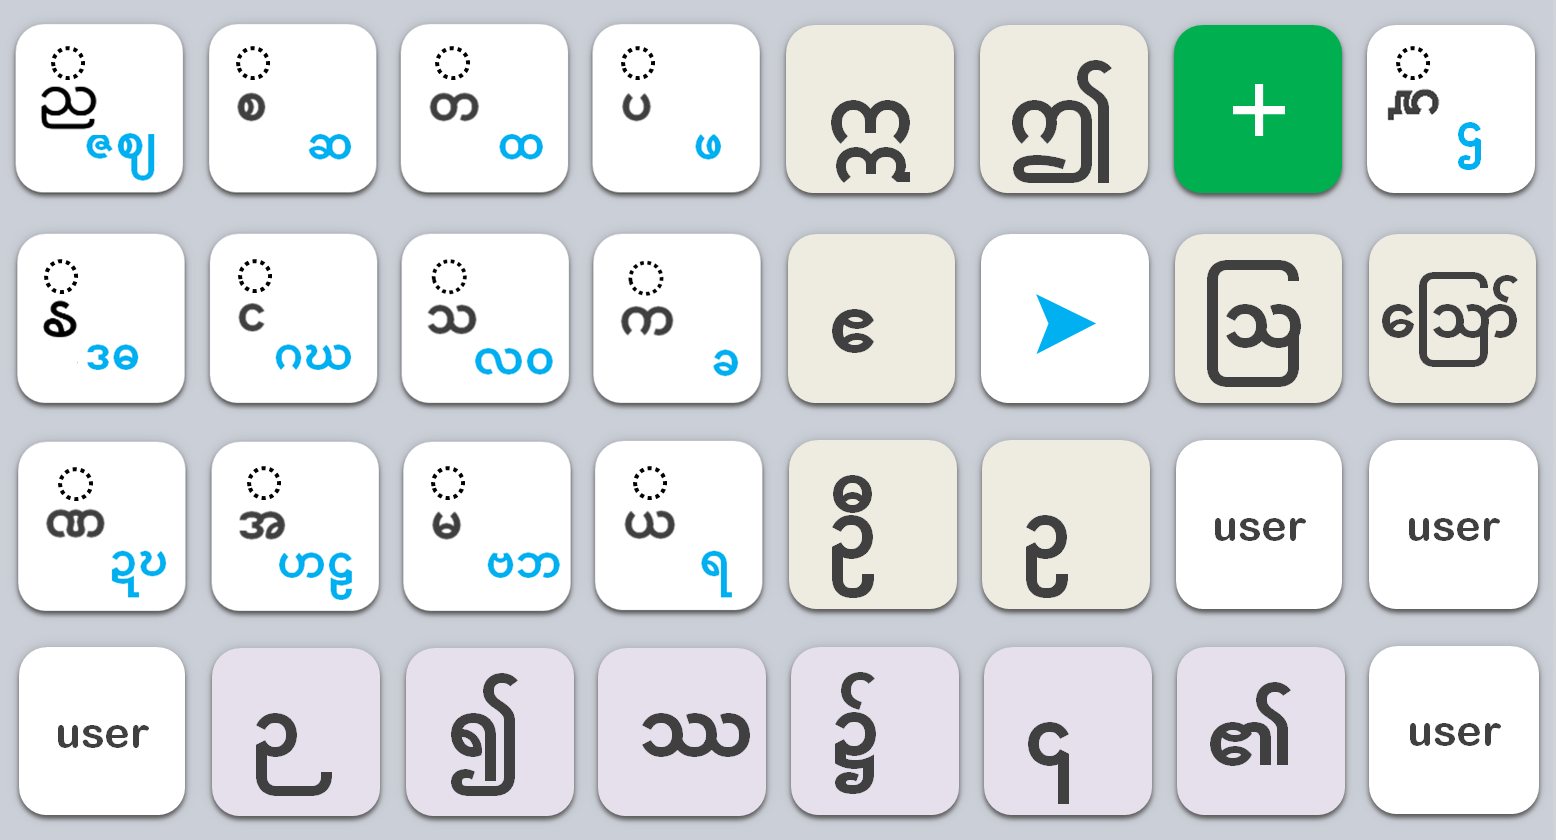
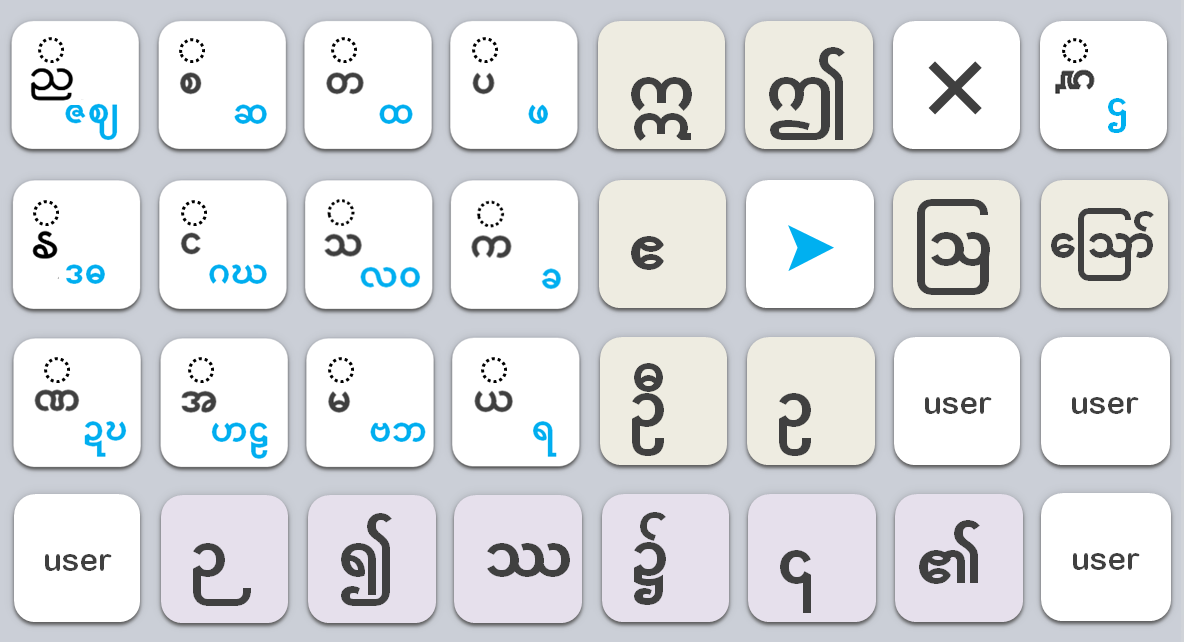
Add files via upload

diff --git a/tutorial_pc.html b/tutorial_pc.html
@@ -333,7 +333,8 @@ function handleInput(rawKey) {
    실제로 그릴 때(paintRings) 지금 어느 이미지가 떠 있는지에 맞는 폭으로 나눠 %를 계산한다 —
    그냥 KIMG_W 하나만 늘렸더니 두 이미지 폭이 서로 달라서 플러스 모드일 때 전부 어긋났었다. */
 const KIMG_H = 356;
-const NORMAL_KIMG_W = 1282, PLUS_KIMG_W = 1225;
+// 2026-09-23 추가: pc_plus.png도 3행 9·10열 버튼을 붙여 1282로 늘어났다 - 이제 두 이미지 키 좌표가 완전히 같다.
+const NORMAL_KIMG_W = 1282, PLUS_KIMG_W = 1282;
 const KB = (x0,y0,x1,y1) => ({ x0, y0, x1, y1 });
 const KEY_BOXES = {
   q:KB(4,3,105,107),   w:KB(118,3,218,107),  e:KB(231,3,332,107),  r:KB(344,3,445,107),  t:KB(457,3,558,107),
@@ -342,7 +343,7 @@ const KEY_BOXES = {
   h:KB(665,126,766,231), j:KB(778,126,879,231), k:KB(892,126,993,231), l:KB(1006,126,1107,231), ";":KB(1120,126,1221,231),
   z:KB(95,248,196,353), x:KB(209,248,310,353), c:KB(322,248,423,353), v:KB(435,248,536,353), b:KB(549,248,649,353),
   n:KB(723,248,824,353), m:KB(837,248,937,353), ",":KB(951,248,1051,353), ".":KB(1064,248,1164,353),
-  "/":KB(1174,248,1280,353) // pc_map(일반 모드)에만 있는 키 - paintRings에서 플러스 모드면 건너뜀
+  "/":KB(1174,248,1280,353)
 };
 
 // 튜토리얼 스텝의 kid → 물리 키
@@ -364,15 +365,17 @@ function kidToKey(kid) {
 
 const kbdImg = document.getElementById('kbdimg');
 const kbdWrap = document.getElementById('kbd-wrap');
+// 삼행시 씬에서는 키맵 우측(모음 영역)을 암기문으로 덮은 그림을 쓴다 - 같은 1282x356이라 링 좌표 그대로
+const MNEMONIC_IMG = "images/pc_map_mnemonic.png";
+let kbdMnemonic = false;
 function syncKbdImage() {
-  const want = state.isPlusMode ? PLUS_IMG : NORMAL_IMG;
+  const want = state.isPlusMode ? PLUS_IMG : (kbdMnemonic ? MNEMONIC_IMG : NORMAL_IMG);
   if (!kbdImg.getAttribute('src').endsWith(want)) kbdImg.setAttribute('src', want);
 }
 function paintRings(specs) {
   kbdWrap.querySelectorAll('.ring').forEach(n => n.remove());
   const imgW = state.isPlusMode ? PLUS_KIMG_W : NORMAL_KIMG_W;
   (specs || []).forEach(({ key, cls }) => {
-    if (state.isPlusMode && key === "/") return; // pc_plus.png엔 이 키가 없다
     const box = KEY_BOXES[key];
     if (!box) return;
     const d = document.createElement('div');
@@ -397,17 +400,22 @@ const VARGA = [
 ];
 
 const VOWEL_KEYS = ["u","i","j","l",";","m",",","."];
+const MNEMONIC_KEYS = ["q","w","e","r","a","s","d","f","z","x","c","v"];
 
 const SCENES = [
   { type:"explain", diagram:true, rings:[{key:"w",cls:""}],
     coach:'ဗျည်းဇယားရဲ့ တစ်တန်းစီက စာလုံး ၅ လုံးကို <b>ရှေ့ ၂ လုံး (၁·၂)</b> နဲ့ <b>နောက် ၃ လုံး (၅·၃·၄)</b> — အုပ်စု ၂ ခုခွဲ၍ စီစဉ်ထားပါတယ်။<br>' +
           '<b style="color:#1aa3e8">အပြာရောင်စာလုံး</b>က ညာဘက်က <b>➤</b> ကို ထပ်နှိပ်ပြီး ရိုက်ပါ။' },
 
+  // 자음 배열 암기용 삼행시 - 아래 키맵 우측에 암기문 표시(pc_map_mnemonic.png), 빨간 글자 = 그 줄 자음 키
+  { type:"explain", mnemonic:true, rings: MNEMONIC_KEYS.map(k => ({ key:k, cls:"" })),
+    coach:'ဗျည်းခလုတ်တွေကို ဒီလို မှတ်ရင် လွယ်ပါတယ်။<br><b style="color:#e11d1d">အနီရောင်</b> စာလုံးတွေက ခလုတ်တွေပေါ်က ဗျည်းတွေပါ။' },
+
   { type:"explain", rings: VOWEL_KEYS.map(k => ({ key:k, cls:"" })),
     coach:'သရသံနဲ့ အသံသင်္ကေတတွေက ဗျည်းနဲ့ <b>တွဲတဲ့ ဘက်</b>အလိုက် ခလုတ်တွေမှာ စီထားပါတယ်။<br>အပေါ်တွဲတာ <b>အပေါ်</b>မှာ၊ အောက်တွဲတာ <b>အောက်</b>မှာ။' },
 
   { type:"explain", rings:[{key:"o",cls:"pulse"}], peekPlus:true,
-    coach:'ဗျည်းဆင့်နဲ့ အထူးအက္ခရာတွေအတွက် <b style="color:#0a7d31">အစိမ်းရောင် ＋</b> ကို နှိပ်ပါ။<br><span style="color:#6b7280;font-size:.9em">အခု နှိပ်ကြည့်ပြီး ကီးဘုတ်က ဘယ်လိုလဲ ကြည့်ထားပါ။</span>' },
+    coach:'ဗျည်းဆင့်နဲ့ အထူးအက္ခရာတွေအတွက် <b>ပါဠိဆင့်+ ကီး</b>ကို နှိပ်ပါ။<br><span style="color:#6b7280;font-size:.9em">အခု နှိပ်ကြည့်ပြီး ကီးဘုတ်က ဘယ်လိုလဲ ကြည့်ထားပါ။</span>' },
 
   { type:"practice", word:"ဆီ", win:"ရပြီ! ✓&nbsp; ဆီ",
     steps:[
@@ -423,7 +431,7 @@ const SCENES = [
       { kid:"STEP",       expect:"ဒ",     coach:'ဘေးစာလုံးကို <b>➤</b> နဲ့။&nbsp; န → ဒ' },
       { kid:",",          expect:"ဒု",    coach:'အောက်တွဲတဲ့ သင်္ကေတက <b>အောက်</b>။' },
       { kid:"g_ka",       expect:"ဒုက",   coach:'<b>က</b> ကို နှိပ်ပါ။' },
-      { kid:"PLUS",       checkPlus:true, coach:'ဗျည်းဆင့်ဖို့ <b style="color:#0a7d31">အစိမ်းရောင် ＋</b> ကီး။' },
+      { kid:"PLUS",       checkPlus:true, coach:'ဗျည်းဆင့်ဖို့ <b>ပါဠိဆင့်+ ကီး</b>ကို နှိပ်ပါ။' },
       { kid:"stack:g_ka", expect:"ဒုက္က", coach:'<b>ခ</b> ပါတဲ့ <b>က</b> ကီးကို နှိပ်ပါ။' },
       { kid:"STEP",       expect:"ဒုက္ခ", coach:'<b>➤</b> နှိပ်ပြီး ခ သို့ ပြောင်းပါ။' }
     ] }
@@ -462,6 +470,7 @@ const TUT = {
     });
 
     diagramEl.hidden = !sc.diagram;
+    kbdMnemonic = !!sc.mnemonic; syncKbdImage();
     document.getElementById('row').classList.toggle('split', !!sc.diagram);
     goalEl.hidden = !practice;          // 따라쓰기 씬에서만 부제로
     editorEl.hidden = !practice;

diff --git a/tutorial_m.html b/tutorial_m.html
@@ -83,7 +83,7 @@
   .btn.ghost   { background: #eef0f2; color: #374151; }
 
   /* ── 키보드 (항상 노출) ── */
-  .keyboard-container { position: relative; width: 100%; flex-shrink: 0; line-height: 0; aspect-ratio: 1758 / 954; }
+  .keyboard-container { position: relative; width: 100%; flex-shrink: 0; line-height: 0; aspect-ratio: 1184 / 646; }
   .keyboard-container > img.kbd-bg { width: 100%; height: 100%; display: block; pointer-events: none; user-select: none; }
   .keyboard { position: absolute; top: 0; left: 0; width: 100%; height: 100%; }
   .key {
@@ -153,24 +153,28 @@ const VIRAMA = "္";
 
 const N_COLX = [0.8, 13.2, 25.5, 37.85, 50.25, 62.7, 75.15, 87.5];
 const N_COLW = [11.4, 11.4, 11.4, 11.45, 11.45, 11.4, 11.45, 11.5];
-const N_ROWY = [2.3, 27.15, 51.8];
-const N_ROWH = 21.4;
+const N_ROWY = [2.7, 27.45, 52.0];
+const N_ROWH = 21.0;
 const N_LAYOUT = [
   ["g_nnya", "g_ca",  "g_ta",  "g_pa",  "i",    "k",    "PLUS", "g_tta"],
   ["g_na",   "g_nga", "g_tha", "g_ka",  "j",    "STEP", "l",    ";"    ],
   ["g_nna",  "g_a",   "g_ma",  "g_ya",  "m",    ",",    ".",    "BS"   ]
 ];
+// 4행 6칸: ! ? , 스페이스 ၊(၊→။→… 순환) 엔터 — 안드로이드 앱 KeyMetrics 하단바와 동일한 칸 구성
 const N_BOTTOM = [
-  { key: "NUM",   left: 0.8,   width: 23.83 },
-  { key: "SPACE", left: 25.54, width: 48.63 },
-  { key: "ENTER", left: 75.14, width: 23.89 }
+  { key: "EXCL",  left: 0.93,  width: 8.87  },
+  { key: "QUEST", left: 10.81, width: 9.12  },
+  { key: "COMMA", left: 20.69, width: 11.15 },
+  { key: "SPACE", left: 32.85, width: 34.04 },
+  { key: "STOP",  left: 67.82, width: 11.15 },
+  { key: "ENTER", left: 80.15, width: 18.92 }
 ];
-const N_BOTTOM_Y = 76.5, N_BOTTOM_H = 21.3;
+const N_BOTTOM_Y = 76.8, N_BOTTOM_H = 20.9;
 
 const P_COLX = [0.8, 13.2, 25.54, 37.83, 50.28, 62.74, 75.2, 87.6];
 const P_COLW = [11.49, 11.49, 11.6, 11.66, 11.6, 11.55, 11.49, 11.6];
-const P_ROWY = [2.4, 27.25, 51.78, 76.31];
-const P_ROWH = 21.5;
+const P_ROWY = [2.96, 27.73, 52.3, 76.64];
+const P_ROWH = 21.05;
 const P_LAYOUT = [
   [ {stack:"g_nnya"}, {stack:"g_ca"},  {stack:"g_ta"},  {stack:"g_pa"},  {lit:"ဣ"}, {lit:"ဤ"}, "PLUS",     {stack:"g_tta"} ],
   [ {stack:"g_na"},   {stack:"g_nga"}, {stack:"g_tha"}, {stack:"g_ka"},  {lit:"ဧ"}, "STEP",    {lit:"ဩ"}, {lit:"ဪ"}       ],
@@ -280,7 +284,17 @@ function handleInput(key) {
   }
   if (key === "SPACE") { setText(getText() + ' ');  resetState(); render(); return; }
   if (key === "ENTER") { setText(getText() + '\n'); resetState(); render(); return; }
-  if (key === "NUM")   { return; }
+  // 4행 문장부호: ! ? , 는 그대로 입력. ၊ 키는 연타하면 ၊ → ။ → ... → .... (안드로이드 handleMyanmarStop과 동일)
+  if (key === "EXCL" || key === "QUEST" || key === "COMMA") {
+    setText(getText() + { EXCL: "!", QUEST: "?", COMMA: "," }[key]); resetState(); render(); scrollToEnd(); return;
+  }
+  if (key === "STOP") {
+    const seq = i => i === 0 ? "၊" : i === 1 ? "။" : ".".repeat(i + 1);
+    let cur = getText();
+    if (state.lastTapKey === "STOP") { cur = cur.slice(0, -seq(state.tapIndex).length); state.tapIndex++; }
+    else { resetState(); state.lastTapKey = "STOP"; state.tapIndex = 0; }
+    setText(cur + seq(state.tapIndex)); render(); scrollToEnd(); return;
+  }
 
   if (key === "STEP") {
     if (!state.activeGroup) return;
@@ -386,7 +400,7 @@ const SCENES = [
     btn:"ဟုတ်တယ်၊ ကောင်းတဲ့ အကြံ!" },
 
   { type:"explain", pulse:"PLUS", interactive:["PLUS"],
-    coach:'ဗျည်းဆင့်နဲ့ အထူးအက္ခရာတွေအတွက် <b style="color:#0a7d31">အစိမ်းရောင် ＋</b> ကို နှိပ်ပါ။',
+    coach:'ဗျည်းဆင့်နဲ့ အထူးအက္ခရာတွေအတွက် <b>ပါဠိဆင့်+ ကီး</b>ကို နှိပ်ပါ။',
     btn:"နားလည်ပါပြီ" },
 
   { type:"practice", word:"ဆီ", win:"ရပြီ! ✓&nbsp; ဆီ",
@@ -404,7 +418,7 @@ const SCENES = [
       { kid:"STEP",       expect:"ဒ",     coach:'နောက်စာလုံးကို <b>▶</b> နဲ့ ရွှေ့ပါ။&nbsp; န → ဒ' },
       { kid:",",          expect:"ဒု",    coach:'အောက်တွဲတဲ့ သင်္ကေတက <b>အောက်</b>မှာ ရှိတယ်။' },
       { kid:"g_ka",       expect:"ဒုက",   coach:'<b>က</b> ကို နှိပ်ပါ။' },
-      { kid:"PLUS",       checkPlus:true, coach:'ဗျည်းဆင့်ဖို့ <b style="color:#0a7d31">အစိမ်းရောင် ＋</b> ကီး။' },
+      { kid:"PLUS",       checkPlus:true, coach:'ဗျည်းဆင့်ဖို့ <b>ပါဠိဆင့်+ ကီး</b>ကို နှိပ်ပါ။' },
       { kid:"stack:g_ka", expect:"ဒုက္က", coach:'ခ ပါတဲ့ <b>က</b> ကီးကို နှိပ်ပါ။' },
       { kid:"STEP",       expect:"ဒုက္ခ", coach:'<b>▶</b> နှိပ်ပြီး ခ သို့ ပြောင်းပါ။' }
     ],

diff --git a/mobile_demo.html b/mobile_demo.html
@@ -116,30 +116,33 @@ const multiTapMap = {
 const ZWNJ = "";
 const VIRAMA = "္";
 
-// ── 일반 모드 그리드 (images/mobile.png, 1758×954 실측 %) ──
+// ── 일반 모드 그리드 (images/mobile.png, 1184×646 실측 % — 2026-09-25 이미지 교체 후 재측정) ──
 const N_COLX = [0.8, 13.2, 25.5, 37.85, 50.25, 62.7, 75.15, 87.5];
 const N_COLW = [11.4, 11.4, 11.4, 11.45, 11.45, 11.4, 11.45, 11.5];
-const N_ROWY = [2.3, 27.15, 51.8];
-const N_ROWH = 21.4;
+const N_ROWY = [2.7, 27.45, 52.0];
+const N_ROWH = 21.0;
 
 const N_LAYOUT = [
   ["g_nnya", "g_ca",  "g_ta",  "g_pa",  "i",    "k",    "PLUS", "g_tta"],
   ["g_na",   "g_nga", "g_tha", "g_ka",  "j",    "STEP", "l",    ";"    ],
   ["g_nna",  "g_a",   "g_ma",  "g_ya",  "m",    ",",    ".",    "BS"   ]
 ];
+// 4행 6칸: ! ? , 스페이스 ၊(၊→။→… 순환) 엔터 — 안드로이드 앱 KeyMetrics 하단바와 동일한 칸 구성
 const N_BOTTOM = [
-  { key: "NUM",   left: 0.8,   width: 23.83 },
-  { key: "SPACE", left: 25.54, width: 48.63 },
-  { key: "ENTER", left: 75.14, width: 23.89 }
+  { key: "EXCL",  left: 0.93,  width: 8.87  },
+  { key: "QUEST", left: 10.81, width: 9.12  },
+  { key: "COMMA", left: 20.69, width: 11.15 },
+  { key: "SPACE", left: 32.85, width: 34.04 },
+  { key: "STOP",  left: 67.82, width: 11.15 },
+  { key: "ENTER", left: 80.15, width: 18.92 }
 ];
-const N_BOTTOM_Y = 76.5;
-const N_BOTTOM_H = 21.3;
+const N_BOTTOM_Y = 76.8, N_BOTTOM_H = 20.9;
 
-// ── 플러스 모드 그리드 (images/how2plus.png, 1758×954 실측 %) ──
+// ── 플러스 모드 그리드 (images/how2plus.png, 1184×642 실측 %) ──
 const P_COLX = [0.8, 13.2, 25.54, 37.83, 50.28, 62.74, 75.2, 87.6];
 const P_COLW = [11.49, 11.49, 11.6, 11.66, 11.6, 11.55, 11.49, 11.6];
-const P_ROWY = [2.4, 27.25, 51.78, 76.31];
-const P_ROWH = 21.5;
+const P_ROWY = [2.96, 27.73, 52.3, 76.64];
+const P_ROWH = 21.05;
 
 // 각 셀: null(=user/미사용), "PLUS", "STEP"(▶ 순환), {stack:"그룹키"}(◌္ + 그룹 첫 자음), {lit:"문자"}(그대로 삽입)
 // 자음 배열·▶ 위치 모두 일반 모드와 동일한 닌카티 그룹. 4행 특수문자는 우측으로 한 칸 이동(엄지 편의).
@@ -292,7 +295,17 @@ function handleInput(key) {
   // 하단바
   if (key === "SPACE") { setText(getText() + ' ');  resetState(); render(); scrollToEnd(); return; }
   if (key === "ENTER") { setText(getText() + '\n'); resetState(); render(); scrollToEnd(); return; }
-  if (key === "NUM")   { return; } // 숫자 모드 미구현
+  // 4행 문장부호: ! ? , 는 그대로 입력. ၊ 키는 연타하면 ၊ → ။ → ... → .... (안드로이드 handleMyanmarStop과 동일)
+  if (key === "EXCL" || key === "QUEST" || key === "COMMA") {
+    setText(getText() + { EXCL: "!", QUEST: "?", COMMA: "," }[key]); resetState(); render(); scrollToEnd(); return;
+  }
+  if (key === "STOP") {
+    const seq = i => i === 0 ? "၊" : i === 1 ? "။" : ".".repeat(i + 1);
+    let cur = getText();
+    if (state.lastTapKey === "STOP") { cur = cur.slice(0, -seq(state.tapIndex).length); state.tapIndex++; }
+    else { resetState(); state.lastTapKey = "STOP"; state.tapIndex = 0; }
+    setText(cur + seq(state.tapIndex)); render(); scrollToEnd(); return;
+  }
 
   // ▶ 변환키 — 활성 그룹을 다음 문자로 순환
   if (key === "STEP") {

diff --git a/index.html b/index.html
@@ -133,9 +133,9 @@
             </div>
             <div class="md:w-1/2">
                 <h3 class="text-2xl font-bold mb-6 text-gray-800">ဗျည်းဆင့်၊ သီးခြားသရနှင့် အထူးသင်္ကေတများ</h3>
-                <p class="text-gray-600 mb-6 font-medium">အခြေခံဗျည်းနှင့် သရများမှလွဲ၍ ကျန်ရှိသော ခလုတ်များကို [+] ခလုတ်တွင် စုစည်းထားပါသည်။</p>
+                <p class="text-gray-600 mb-6 font-medium">အခြေခံဗျည်းနှင့် သရများမှလွဲ၍ ကျန်ရှိသော ခလုတ်များကို <strong>ပါဠိဆင့်+ ကီး</strong>တွင် စုစည်းထားပါသည်။</p>
                 <div class="bg-blue-50 p-6 rounded-xl inline-block">
-                    <p class="text-blue-700 font-bold text-lg">ညာဘက်အပေါ်ထောင့်ရှိ [+] ခလုတ်ကို နှိပ်ပါ။</p>
+                    <p class="text-blue-700 font-bold text-lg">ညာဘက်အပေါ်ထောင့်ရှိ ပါဠိဆင့်+ ကီးကို နှိပ်ပါ။</p>
                 </div>
             </div>
         </div>

diff --git a/pc_demo_windows.html b/pc_demo_windows.html
@@ -410,7 +410,8 @@ function handleInput(rawKey) {
 // 1225→1282로 늘어났다(사용자가 이미지 직접 교체) - 3행 좌표를 실측해서 갱신. pc_plus.png는
 // 이 기능과 무관해 폭 그대로(1225)라서, 히트박스 폭 기준을 이미지별로 따로 둔다(안 그러면
 // 플러스 모드일 때 오버레이가 실제 키 자리에서 살짝 어긋난다).
-const NORMAL_IMG_W = 1282, PLUS_IMG_W = 1225, IMG_H = 356;
+// 2026-09-23 추가: pc_plus.png도 3행 9·10열 버튼을 붙여 1282로 늘어났다 - 두 이미지 크기·키 좌표가 이제 같다.
+const NORMAL_IMG_W = 1282, PLUS_IMG_W = 1282, IMG_H = 356;
 const ROW_Y = [[3,107],[126,231],[248,353]];
 const ROW_KEYS = [
   ["q","w","e","r","t","y","u","i","o","p"],
@@ -430,7 +431,6 @@ function buildHits(imgW, isPlus) {
   ROW_KEYS.forEach((keys, ri) => {
     const [y0, y1] = ROW_Y[ri];
     keys.forEach((key, ci) => {
-      if (isPlus && key === "/") return; // pc_plus.png엔 이 칸이 없다(폭 그대로, 기능도 무관)
       const [x0, x1] = ROW_COLS[ri][ci];
       const d = document.createElement('div');
       d.className = 'kb-hit';

diff --git a/challenge.html b/challenge.html
@@ -387,7 +387,7 @@ function showPlusPopup() {
   const rect = getCaretRect();
   const vw = window.innerWidth  || document.documentElement.clientWidth  || 1280;
   const vh = window.innerHeight || document.documentElement.clientHeight || 800;
-  const popW = 460, popH = 460 * 356 / 1225;   // pc_plus.png 비율
+  const popW = 460, popH = 460 * 356 / 1282;   // pc_plus.png 비율(2026-09-23 1225→1282)
   let left = rect.left, top = rect.bottom + 8;
   if (left + popW > vw - 8) left = vw - popW - 8;
   if (top  + popH > vh - 8) top  = rect.top - popH - 8;
